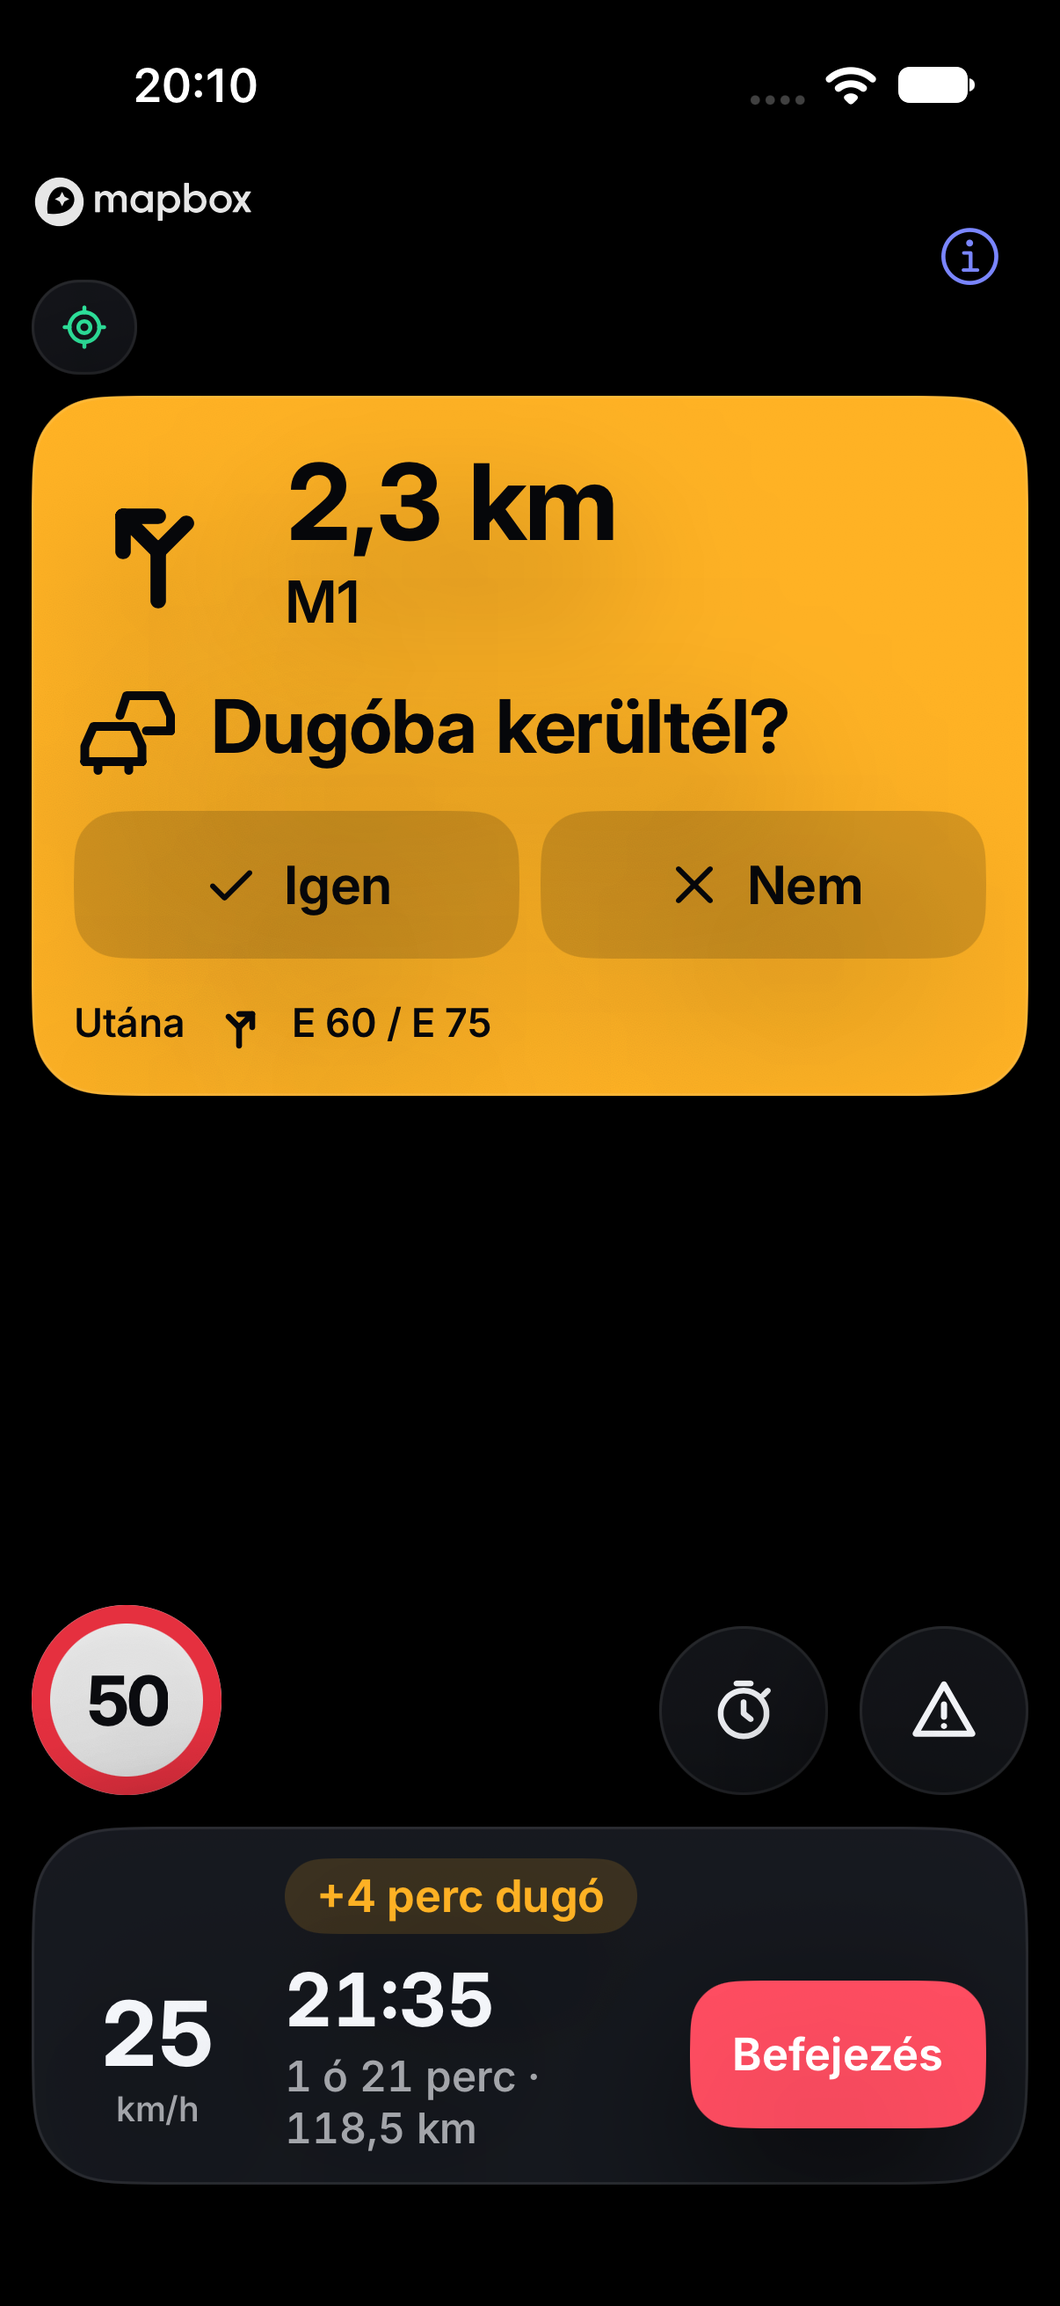
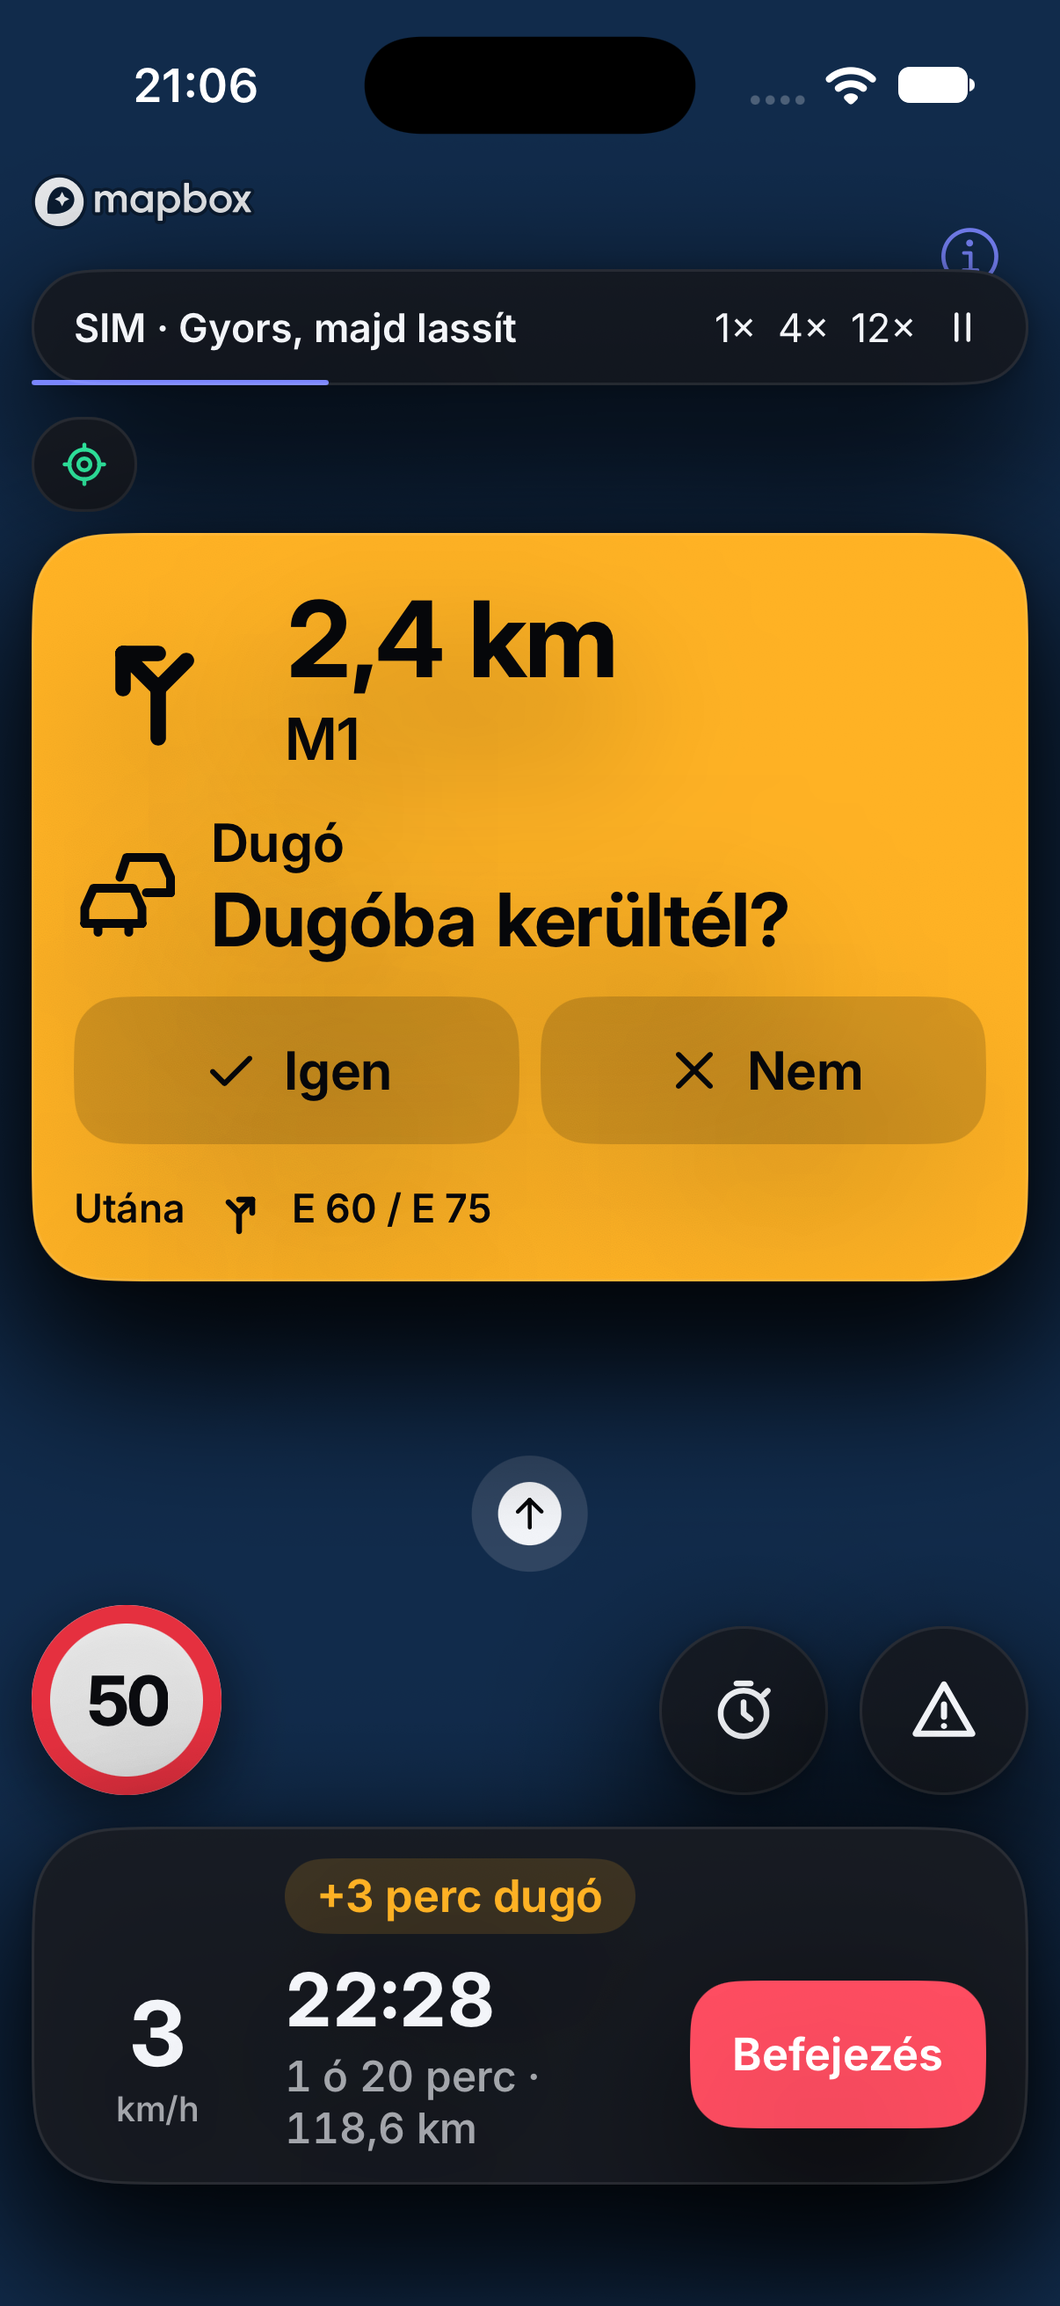
AW18 javítás: a dugó-hang csak egyszer, „Dugó” cím az iOS-kártyán, német menü (web + iOS)
- „+N perc dugó”: a hang csak az első alkalommal szól, a további növekedésnél
  a sáv némán frissül (TS + Swift, azonos nevű teszt).
- iOS „Dugóba kerültél?” kártya: a „Dugó” cím a kérdés fölött, mint a weben.
- Bejelentés menü: németül „Messstrecke Start / Ende”, „Sperrung”,
  „Strecke fehlerhaft”; a fél szélességű kapu-tétel 36 px-es ikonnal, 1.1-es
  sorközzel – minden csempe 76 px mind a 6 nyelven; német képek web + iOS.

diff --git a/packages/app-logic/test/navigation.test.ts b/packages/app-logic/test/navigation.test.ts
@@ -1841,7 +1841,11 @@ describe('AW17: az útvonalválasztó „+N perc” címkéjének helye (képern
 // ---------------------------------------------------------------------------
 
 /** Egyenletes haladás `fromS`-től `toS`-ig (mp-enként egy fix), `mps` sebességgel, `alongM`-től. Visszaadja a végső helyet. */
-async function drive(h: Harness, route: NavRoute, o: { fromS: number; toS: number; alongM: number; mps: number; respond?: (s: number, along: number) => NavRoute[] | null }): Promise<number> {
+async function drive(
+  h: Harness,
+  route: NavRoute,
+  o: { fromS: number; toS: number; alongM: number; mps: number; respond?: (s: number, along: number) => NavRoute[] | null; onStep?: (s: number) => unknown },
+): Promise<number> {
   let along = o.alongM;
   for (let s = o.fromS; s <= o.toS; s++) {
     if (s > o.fromS) along += o.mps;
@@ -1849,6 +1853,7 @@ async function drive(h: Harness, route: NavRoute, o: { fromS: number; toS: numbe
     if (r) h.respond(r);
     feed(h, at(route, along, 0, T0 + s * 1000, { speed: o.mps }));
     await flush();
+    o.onStep?.(s);
   }
   return along;
 }
@@ -1927,24 +1932,26 @@ describe('AW18: élő forgalom navigáció közben', () => {
     expect(plain.get('alternatives')).toBe('true');
   });
 
-  it('„+N perc dugó” 3 perctől; a hang egyszer, aztán legfeljebb 5 percenként, ha a késés tovább nőtt', async () => {
+  it('„+N perc dugó” 3 perctől; a hang csak az első alkalommal szól, a késés további növekedése néma (a sáv frissül)', async () => {
     const route = lineRoute({ lengthM: 100_000, durationS: 3600 });
     const h = harness(route);
     const v = 100_000 / 3600;
     const extra = [120, 240, 360, 480, 480];
-    const delays: (number | null)[] = [];
     const said: string[] = [];
+    const delays: (number | null)[] = [];
     await drive(h, route, {
       fromS: 0,
       toS: 600,
       alongM: 0,
       mps: v,
       respond: (s, along) => (s % 120 === 0 && s > 0 ? [freshFrom(along, extra[s / 120 - 1]!)] : null),
+      onStep: (s) => s % 120 === 5 && delays.push(h.session.view().delayMin),
     });
-    void delays;
     for (const e of h.session.drainVoice()) if (e.kind === 'traffic') said.push(e.text);
-    // 2 perc: nincs; 4 perc (240 s): „4 perccel” – egyszer; 6 perc (360 s): csak 2 perce szólt; 8 perc (480): 5 perc után, nőtt
-    expect(said).toEqual(['Dugó az útvonalon, az érkezés 4 perccel később.', 'Dugó az útvonalon, az érkezés 8 perccel később.']);
+    // 2 perc: nincs; 4 perc (240 s): „4 perccel” – egyszer; 6 és 8 perc: a sáv frissül, hang nincs
+    expect(said).toEqual(['Dugó az útvonalon, az érkezés 4 perccel később.']);
+    // a mintavétel 5 s-mal a lekérések után (5, 125, 245, 365, 485 s): a sáv minden friss adatnál frissül
+    expect(delays).toEqual([null, null, 4, 6, 8]);
     expect(h.session.view().delayMin).toBe(8);
   });
 

diff --git a/apps/ios/AtlagsebessegTests/NavigationTests.swift b/apps/ios/AtlagsebessegTests/NavigationTests.swift
@@ -2004,13 +2004,14 @@ struct AW17LabelTests {
 /// Egyenletes haladás `fromS`-től `toS`-ig (mp-enként egy fix), `mps` sebességgel, `alongM`-től. Visszaadja a végső helyet.
 @MainActor
 @discardableResult
-private func drive(_ h: Harness, _ route: NavRoute, fromS: Int, toS: Int, alongM: Double, mps: Double, respond: ((Int, Double) -> [NavRoute]?)? = nil) async -> Double {
+private func drive(_ h: Harness, _ route: NavRoute, fromS: Int, toS: Int, alongM: Double, mps: Double, respond: ((Int, Double) -> [NavRoute]?)? = nil, onStep: ((Int) -> Void)? = nil) async -> Double {
     var along = alongM
     for s in fromS...toS {
         if s > fromS { along += mps }
         if let r = respond?(s, along) { h.respond(r) }
         h.feed(at(route, along, 0, T0 + Double(s) * 1000, speed: mps))
         await h.session.settle()
+        onStep?(s)
     }
     return along
 }
@@ -2099,18 +2100,23 @@ struct AW18TrafficTests {
         #expect(pq("alternatives") == "true")
     }
 
-    @Test("„+N perc dugó” 3 perctől; a hang egyszer, aztán legfeljebb 5 percenként, ha a késés tovább nőtt")
+    @Test("„+N perc dugó” 3 perctől; a hang csak az első alkalommal szól, a késés további növekedése néma (a sáv frissül)")
     func kesesHang() async {
         let route = lineRoute(lengthM: 100_000, durationS: 3600)
         let h = Harness(route)
         let v = 100_000.0 / 3600
         let extra: [Double] = [120, 240, 360, 480, 480]
-        await drive(h, route, fromS: 0, toS: 600, alongM: 0, mps: v) { s, along in
+        var delays: [Int?] = []
+        await drive(h, route, fromS: 0, toS: 600, alongM: 0, mps: v, respond: { s, along in
             s % 120 == 0 && s > 0 ? [freshFrom(along, extra[s / 120 - 1])] : nil
-        }
+        }, onStep: { s in
+            if s % 120 == 5 { delays.append(h.session.view().delayMin) }
+        })
         let said = h.session.drainVoice().filter { $0.kind == .traffic }.map(\.text)
-        // 2 perc: nincs; 4 perc (240 s): „4 perccel” – egyszer; 6 perc (360 s): csak 2 perce szólt; 8 perc (480): 5 perc után, nőtt
-        #expect(said == ["Dugó az útvonalon, az érkezés 4 perccel később.", "Dugó az útvonalon, az érkezés 8 perccel később."])
+        // 2 perc: nincs; 4 perc (240 s): „4 perccel” – egyszer; 6 és 8 perc: a sáv frissül, hang nincs
+        #expect(said == ["Dugó az útvonalon, az érkezés 4 perccel később."])
+        // a mintavétel 5 s-mal a lekérések után (5, 125, 245, 365, 485 s): a sáv minden friss adatnál frissül
+        #expect(delays == [nil, nil, 4, 6, 8])
         #expect(h.session.view().delayMin == 8)
     }
 

diff --git a/apps/ios/Atlagsebesseg/Navigation/NavigationSession.swift b/apps/ios/Atlagsebesseg/Navigation/NavigationSession.swift
@@ -212,7 +212,8 @@ final class NavigationSession {
     private var jamDeclined = Set<String>()
     private var lastJamUploadAt: Double?
     private var jamUploads: [JamSampleInsert] = []
-    private var delaySaid: (at: Double, min: Int)?
+    /// A „+N perc dugó” hangja már elhangzott (AW18-javítás: csak egyszer).
+    private var delaySaid = false
 
     /// Minden változás után (a nézet frissül, a hang-réteg kiolvassa a sort).
     var onChange: (() -> Void)?
@@ -720,13 +721,13 @@ final class NavigationSession {
         return (t0 + remainingS() * 1000 - plannedEtaMs) / 1000
     }
 
-    /// A „+N perc dugó” hangja: egyszer ≥ 3 percnél, aztán legfeljebb 5 percenként, ha tovább nőtt; a kérdés lejárata.
+    /// A „+N perc dugó” hangja: csak az első alkalommal (≥ 3 perc); a további növekedésnél a sáv némán frissül. A kérdés lejárata.
     private func updateTraffic(_ t0: Double) {
         if let u = jamAskUntil, t0 >= u { jamAskUntil = nil }
         guard let d = delayS(t0), d >= TRAFFIC.delayShowS else { return }
         let min = Int(jsRound(d / 60))
-        if delaySaid == nil || (t0 - delaySaid!.at >= TRAFFIC.delayRepeatMs && min > delaySaid!.min) {
-            delaySaid = (t0, min)
+        if !delaySaid {
+            delaySaid = true
             say(.traffic, t(.navVoiceDelay, ["n": String(min)], lang: lang))
         }
     }

diff --git a/packages/app-logic/src/navigation/session.ts b/packages/app-logic/src/navigation/session.ts
@@ -213,7 +213,8 @@ export class NavigationSession {
   private readonly jamDeclined = new Set<string>();
   private lastJamUploadAt: number | null = null;
   private jamUploads: JamSampleInsert[] = [];
-  private delaySaid: { at: number; min: number } | null = null;
+  /** A „+N perc dugó” hangja már elhangzott (AW18-javítás: csak egyszer). */
+  private delaySaid = false;
 
   constructor(
     route: NavRoute,
@@ -757,15 +758,14 @@ export class NavigationSession {
     return (t0 + this.remainingS() * 1000 - this.plannedEtaMs) / 1000;
   }
 
-  /** A „+N perc dugó” hangja: egyszer ≥ 3 percnél, aztán legfeljebb 5 percenként, ha tovább nőtt; a kérdés lejárata. */
+  /** A „+N perc dugó” hangja: csak az első alkalommal (≥ 3 perc); a további növekedésnél a sáv némán frissül. A kérdés lejárata. */
   private updateTraffic(t0: number): void {
     if (this.jamAskUntil !== null && t0 >= this.jamAskUntil) this.jamAskUntil = null;
     const d = this.delayS(t0);
     if (d === null || d < TRAFFIC.delayShowS) return;
     const min = Math.round(d / 60);
-    const s = this.delaySaid;
-    if (s === null || (t0 - s.at >= TRAFFIC.delayRepeatMs && min > s.min)) {
-      this.delaySaid = { at: t0, min };
+    if (!this.delaySaid) {
+      this.delaySaid = true;
       this.say('traffic', t('nav.voice.delay', { n: min }));
     }
   }

diff --git a/packages/app-logic/src/navigation/traffic.ts b/packages/app-logic/src/navigation/traffic.ts
@@ -7,8 +7,8 @@ import type { NavRoute } from './types';
 /**
  * AW18: forgalom navigáció közben, helyi dugó-érzékelés, közösségi dugó-adat, újratervezés-újrapróbálás.
  * - `refreshMs`: friss driving-traffic lekérés ennyi időnként (a 2 perces alternatíva-figyeléssel közös hívás).
- * - `delayShowS`: a „+N perc dugó” ennyi késéstől (a friss ETA az indulási tervhez képest); a hang egyszer, aztán
- *   legfeljebb `delayRepeatMs`-enként, ha a késés tovább nőtt.
+ * - `delayShowS`: a „+N perc dugó” ennyi késéstől (a friss ETA az indulási tervhez képest); a hang csak az első
+ *   alkalommal szól, a további növekedésnél a sáv némán frissül.
  * - Dugó-állapot: a `jamWindowMs` ablak mért átlaga a várt tempó `jamSlowFraction`-ja alatt; vége, ha legalább
  *   `jamClearM`-en át a várt tempó `jamNearFraction`-ja fölött halad (a lámpák közti rövidebb gyorsulás nem szakítja meg).
  * - A „Dugóba kerültél?” kártya `jamPromptMs` után válasz nélkül eltűnik.
@@ -21,7 +21,6 @@ import type { NavRoute } from './types';
 export const TRAFFIC = {
   refreshMs: 120_000,
   delayShowS: 180,
-  delayRepeatMs: 300_000,
   jamWindowMs: 120_000,
   jamSlowFraction: 0.5,
   jamNearFraction: 0.8,

diff --git a/apps/ios/Atlagsebesseg/UI/ReportViews.swift b/apps/ios/Atlagsebesseg/UI/ReportViews.swift
@@ -264,7 +264,11 @@ struct JamAskRow: View {
         VStack(alignment: .leading, spacing: Tokens.Space.s3) {
             HStack(spacing: Tokens.Space.s3) {
                 Icon(name: .dugo, size: 40)
-                Text(t(.navJamQuestion)).font(.num(Tokens.Typography.title.size, 700)).tracking(-0.3).lineLimit(1).minimumScaleFactor(0.8)
+                // AW18-javítás: a „Dugó” cím a kérdés fölött, mint a weben és a „Még ott van?” sorban
+                VStack(alignment: .leading, spacing: 0) {
+                    Text(t(.reportTypeDugo)).font(.inter(Tokens.Typography.body.size, 640)).lineLimit(1)
+                    Text(t(.navJamQuestion)).font(.num(Tokens.Typography.title.size, 700)).tracking(-0.3).lineLimit(1).minimumScaleFactor(0.8)
+                }
             }
             HStack(spacing: Tokens.Space.s2) {
                 answer(true, icon: .check, text: t(.reportPromptYes))

diff --git a/apps/ios/scripts/render.ts b/apps/ios/scripts/render.ts
@@ -91,7 +91,7 @@ function appLogicConstants(): string {
     'nonisolated enum REPORT_PROMPT {',
     ...Object.entries(REPORT_PROMPT).map(([k, v]) => `    static let ${k} = ${num(v)}`),
     '}',
-    '/// AW18: élő forgalom (2 perces friss lekérés), „+N perc dugó” (≥ `delayShowS`, hang legfeljebb `delayRepeatMs`-enként),',
+    '/// AW18: élő forgalom (2 perces friss lekérés), „+N perc dugó” (≥ `delayShowS`, hang csak először),',
     '/// helyi dugó-érzékelés (`jamWindowMs` ablak a várt tempó `jamSlowFraction`-ja alatt; vége `jamClearM` a `jamNearFraction` fölött),',
     '/// a „Dugóba kerültél?” kártya `jamPromptMs`-ig, közösségi dugó-adat `communityMaxAgeMs`-ig, újratervezés-backoff (s).',
     'nonisolated enum TRAFFIC {',

diff --git a/apps/web/src/styles.css b/apps/web/src/styles.css
@@ -1046,7 +1046,13 @@ button.pill::after {
 
 .tiles-4 .tile[data-gate] {
   font-size: 16px;
-  line-height: 1.15;
+  line-height: 1.1;
+}
+
+.tiles-4 .tile[data-gate] .ic {
+  width: 36px;
+  height: 36px;
+  border-radius: 12px;
 }
 
 .tile.small {

diff --git a/DESIGN.md b/DESIGN.md
@@ -86,8 +86,8 @@ biztonsági zóna fölött lebeg.
 - **Lap** (bottom sheet): bejelentés-rács (2 oszlop, 76 px-es csempék), beállítások. **AW18:** egy 4 oszlopos rács (a
   csempék 2 oszlopot foglalnak; a lap belső margójából 7-7 px, belső térköz 12 px), az utolsó sor 1 + 1 + 2: „Dugó” (lassan
   halad, `near`) és „Beállt” (áll, `over`) kis csempe – 36 px-es ikon a 15 px-es felirat fölött –, mellettük a kapu-tétel
-  (16 px-es felirat); a hosszú szavak elválasztva (`hyphens: auto`). A menü 4 sor marad: hu / en 76 px-es sorok, sk / cs / pl
-  +1 px, de-ben egy 3 soros felirat miatt +11 px.
+  (16 px-es felirat, 1.1-es sorköz, 36 px-es ikon); a hosszú szavak elválasztva (`hyphens: auto`). A menü 4 sor marad, minden
+  csempe 76 px mind a 6 nyelven (németül rövid feliratok: „Sperrung”, „Strecke fehlerhaft”, „Messstrecke Start / Ende”).
 - **Átlagmérés eleje / vége (AW16):** a bejelentés-rács alján két teljes szélességű csempe, „Átlagmérés eleje” és „Átlagmérés
   vége”: egy-egy ideiglenes kapu a jelenlegi helyről és haladási irányból (a meglévő kapu-jelentés) – ismeretlen mérési zóna
   bejelentésére; irány nélkül tiltott. A kézi mérés (stopper-gomb) **privát**: nem küld semmit a szerverre, hálózat nélkül is
@@ -120,10 +120,10 @@ biztonsági zóna fölött lebeg.
 - **Forgalom navigáció közben (AW18):** ha a friss ETA (2 percenkénti Mapbox-lekérés, újratervezés, helyi dugó-becslés)
   legalább 3 perccel az indulási terv után van, az alsó sávban borostyán (`near`) pill: „+N perc dugó” (17 px / 650, a `near`
   16%-os hátterén), közvetlenül az érkezési idő FÖLÖTT, annak oszlopától indulva – a sáv ilyenkor kétsoros (390 px-en a
-  sebesség és a Befejezés mellett az ETA oszlopa ~110 px, oda nem fér). Hang egyszer ≥ 3 percnél, aztán legfeljebb 5
-  percenként, ha a késés nőtt.
+  sebesség és a Befejezés mellett az ETA oszlopa ~110 px, oda nem fér). Hang csak az első alkalommal (≥ 3 perc); a további
+  növekedésnél a sáv némán frissül.
 - **„Dugóba kerültél?” (AW18):** dugó-állapotba lépéskor a manőverkártya alatt, a „Még ott van?” sor helyén és stílusában
-  (borostyán kártya, dugó-ikon, „Dugó” + „Dugóba kerültél?”, Igen / Nem, 56 px); a közeli kamera elsőbbséget kap, a közeledő
+  (borostyán kártya, dugó-ikon, fölül kicsiben „Dugó”, alatta nagyban „Dugóba kerültél?”, Igen / Nem, 56 px – weben és iOS-en azonosan); a közeli kamera elsőbbséget kap, a közeledő
   bejelentés utána jön. Igen → „Dugó” bejelentés a pozícióra (a meglévő folyamat, toast, jelölő a térképen); Nem → arra a
   szakaszra (a következő manőverig) ebben az útban nem kérdez újra; válasz nélkül 15 s után eltűnik. Hang egyszer.
 - **Újratervezés-hiba (AW18):** „Az újratervezés nem sikerült – próbálom újra” (`over`), alatta 17 px-es halvány sor: „Újra

diff --git a/CLAUDE.md b/CLAUDE.md
@@ -249,7 +249,8 @@ Gyökér: `npm test` és `npm run typecheck` minden csomagra; `npm run test:all`
     továbbra is az AW12-szabállyal (≥ 2 perc, megéri / lehet / nem éri meg). A Directions-kliens 10 s után `timeout`.
   - **„+N perc dugó”:** a friss ETA (Mapbox / helyi dugó) − az indulási terv (`plannedEtaMs`, az első fixnél rögzítve) ≥ 3
     perc → borostyán pill az érkezési idő mellett (`delayMin`); csak friss adattal vagy dugóban (a puszta lassú haladás nem
-    elég). Hang (`nav.voice.delay`, `VoiceKind` `traffic`) egyszer, aztán legfeljebb 5 percenként, ha nőtt.
+    elég). Hang (`nav.voice.delay`, `VoiceKind` `traffic`) **csak az első alkalommal** (AW18-javítás, Kristof); a késés
+    további növekedésénél a sáv némán frissül.
   - **Helyi dugó-érzékelés (`JamDetector`):** a 2 perces ablak átlaga (az útvonal menti legtávolabbi pont növekedéséből – a
     GPS-zaj nem haladás) a várt tempó (a Directions nyers ideje ±250 m-en) fele alatt → dugó; vége ≥ 500 m megszakítás
     nélkül a várt tempó 80%-a fölött (a lámpák közti rövid gyorsulás nem szakítja meg). Dugóba lépéskor „Dugóba kerültél?
@@ -258,7 +259,8 @@ Gyökér: `npm test` és `npm run typecheck` minden csomagra; `npm run test:all`
     manőverig (legfeljebb `jamAheadMaxM` = 3 km) a mért átlaggal (legalább 5 km/h), onnan a tervvel; a Mapbox és a helyi
     becslés közül a nagyobb.
   - **Bejelentés:** új típusok `dugo` (lassan halad) és `beallt` (áll), a menü utolsó sorában a kapu-tétel mellett
-    (`isRowTile`; egy 4 oszlopos rács, 1 + 1 + 2), 6 nyelven (angolul „Traffic” / „Standstill”, hogy egy sorba férjen); a
+    (`isRowTile`; egy 4 oszlopos rács, 1 + 1 + 2), 6 nyelven (angolul „Traffic” / „Standstill”, hogy egy sorba férjen;
+    AW18-javítás: németül „Messstrecke Start / Ende”, „Sperrung”, „Strecke fehlerhaft” – így minden nyelven minden csempe 76 px); a
     menüből küldött dugó / beállt is közösségi mintát ad (`reportedJam`); a kártya „Igen”-je egyetlen `bejelentett` mintát ad.
   - **Alsó sáv dugónál kétsoros:** a „+N perc dugó” az érkezési idő fölött (390 px-en mellé nem fér).
   - **Közösségi dugó-adat:** `jam_samples` tábla (migráció `20261030000100`, RLS mint a reports: olvasás mindenkinek, beszúrás
